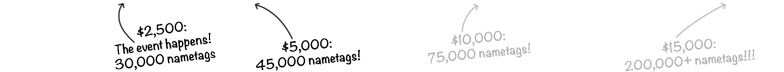
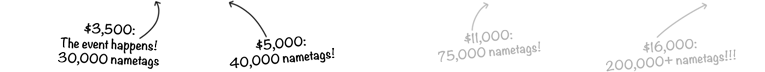
Changed fundraising bar to reflect $1000 Awesome Foundation grant

diff --git a/app/assets/stylesheets/public/primary.css.scss b/app/assets/stylesheets/public/primary.css.scss
@@ -472,8 +472,8 @@ background-color: #ffe4cc;
 }
 
 .alert .progress {
-  width:784px;
-  margin-left:21px;
+  width:765px;
+  margin-left:28px;
   margin-top: 8px;
   margin-bottom: 0;
   background-color: #ededed;
@@ -500,7 +500,7 @@ position:absolute;
 .xticker div {
 display: block;
 float: left;
-width: 49px;
+width: 45px;
 font-size: 10px;
 text-align: center;
 background: url("/assets/blackline.gif") no-repeat center top;
@@ -508,7 +508,7 @@ padding-top: 2px;
 }
 
 .xticker div.first {
-margin-left: 45px;
+margin-left: 49px;
 }
 
 .fundraisebox h4, .fundraisebox p {
